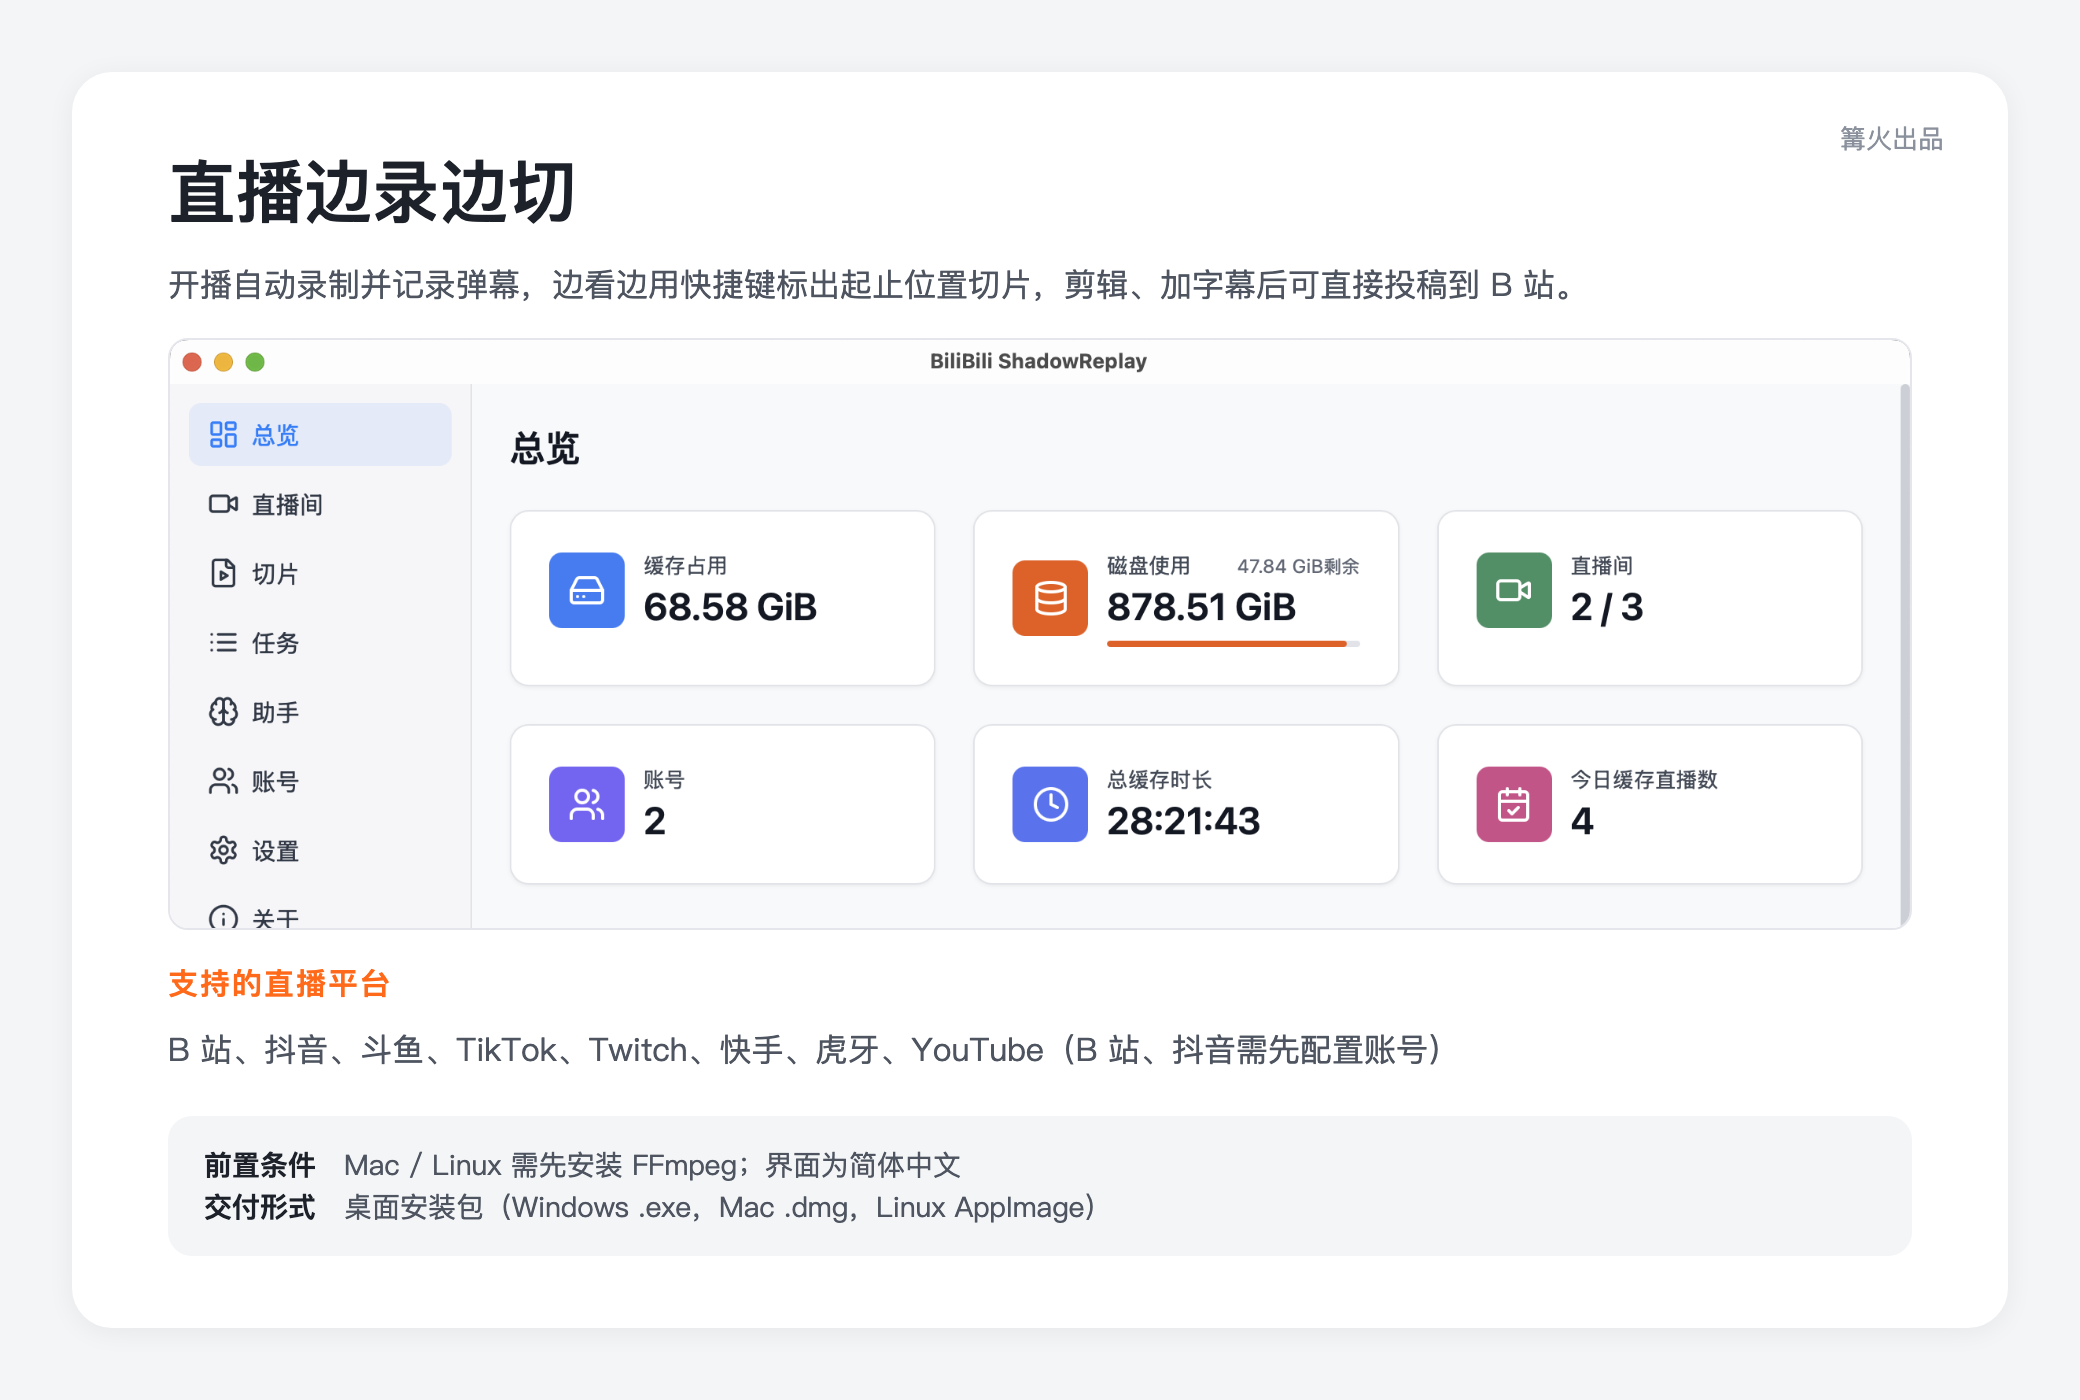
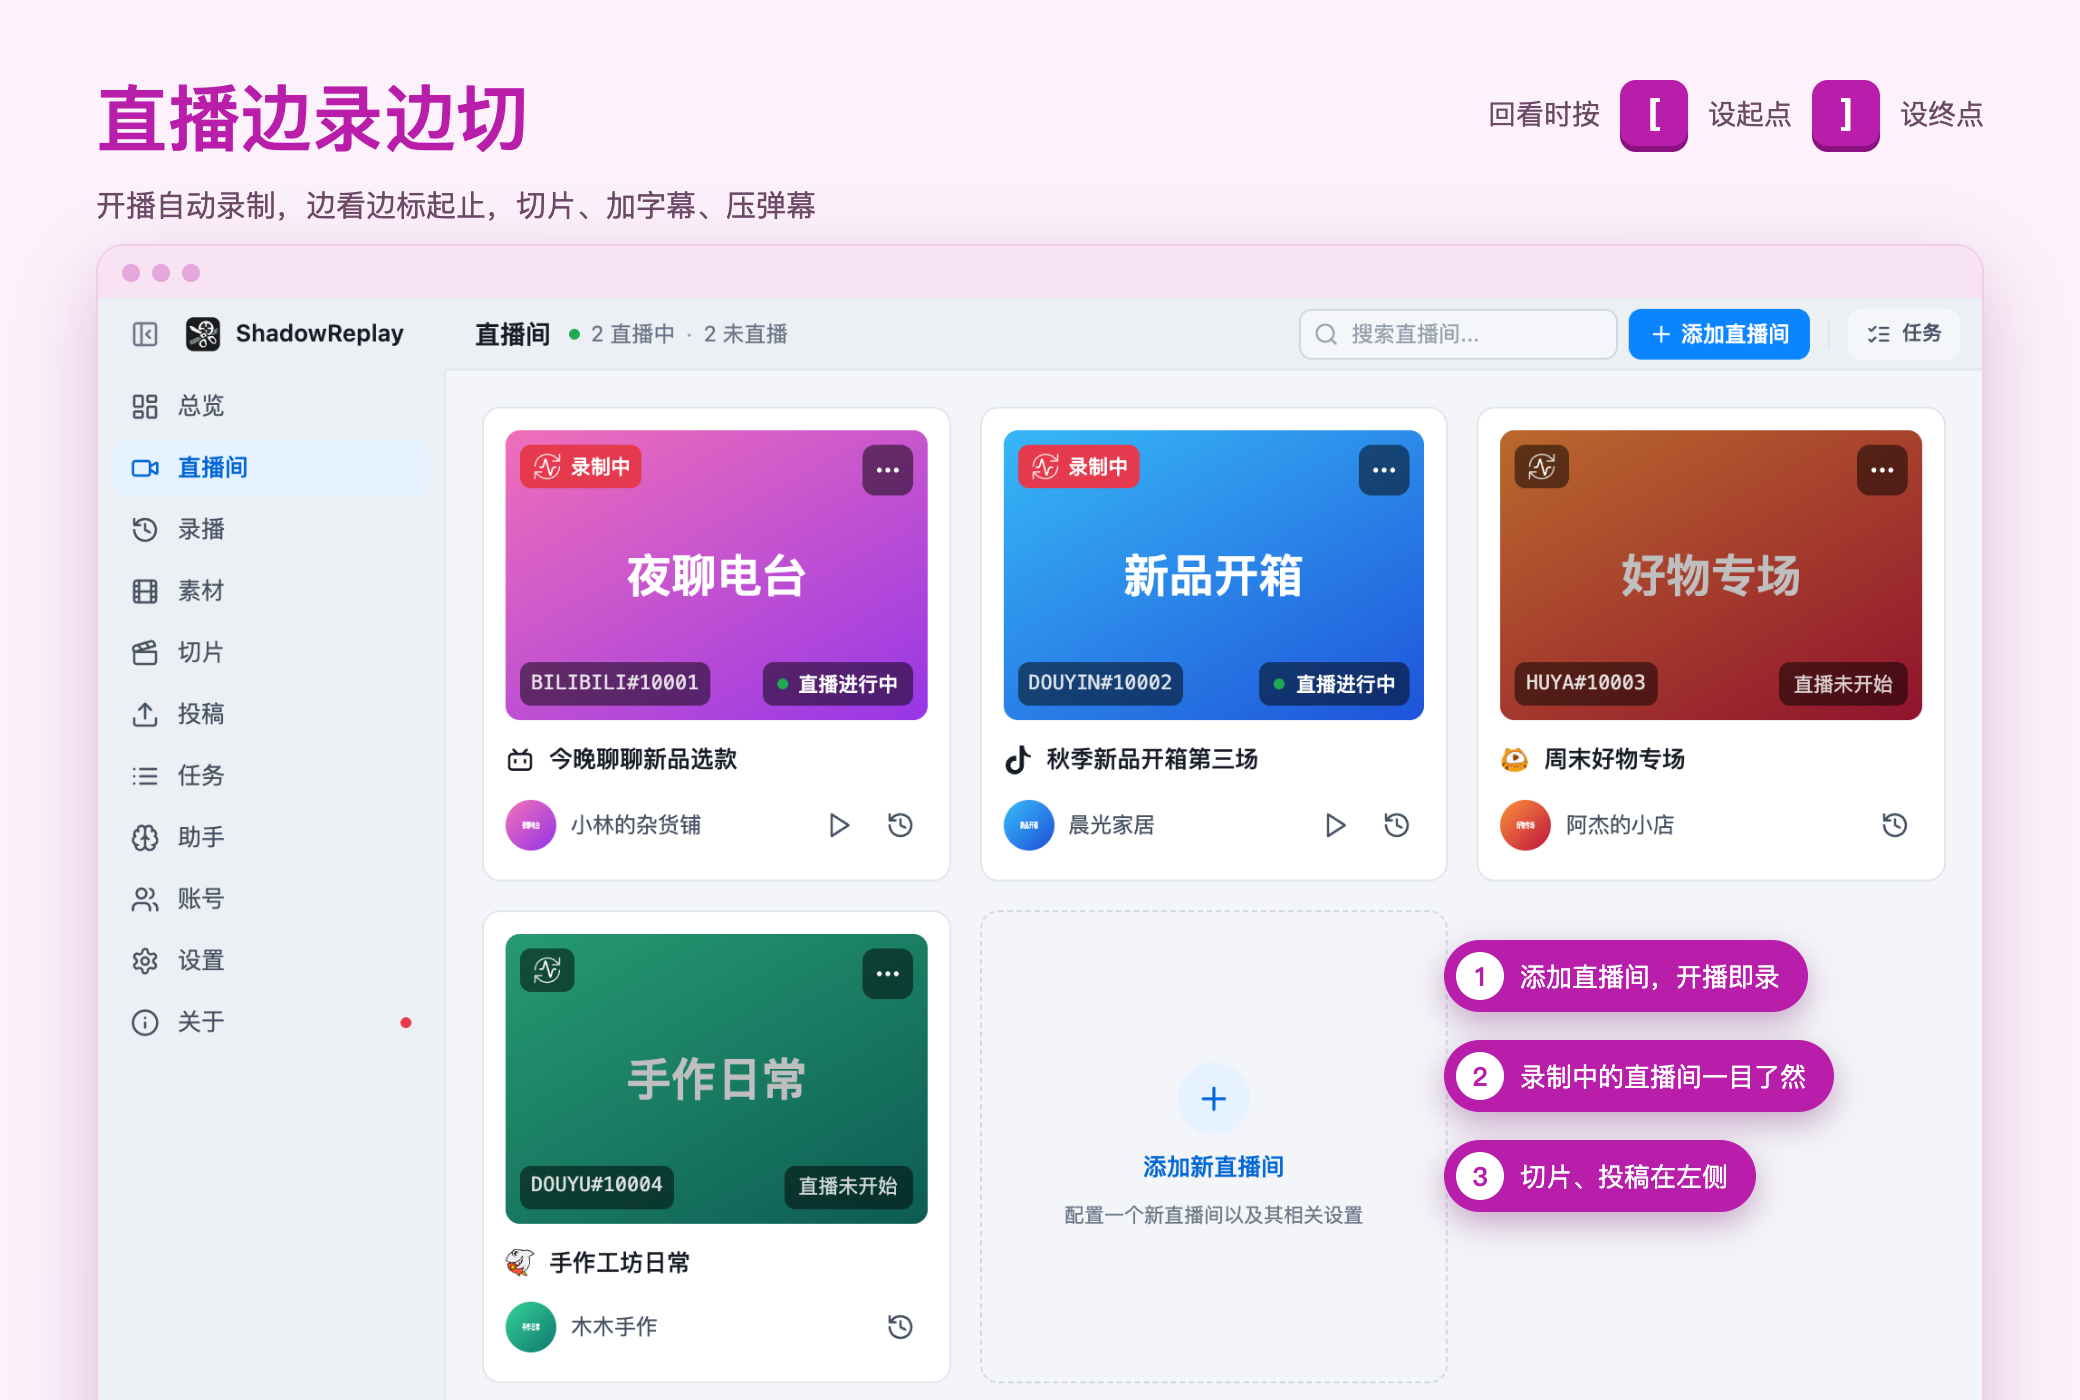
docs: 中文界面真实截图与说明卡，说明界面语言

diff --git a/docs/screenshot.html b/docs/screenshot.html
@@ -1,12 +1,19 @@
-<!doctype html><html lang="zh-CN"><meta charset="utf-8"><title>直播边录边切</title><style>*{box-sizing:border-box}body{margin:0;width:1040px;height:700px;background:#f4f5f7;font-family:-apple-system,"PingFang SC","Helvetica Neue",sans-serif;color:#1d2129;padding:36px}
-.card{background:#fff;border-radius:20px;height:628px;padding:36px 48px;box-shadow:0 2px 14px rgba(0,0,0,.06);position:relative;display:flex;flex-direction:column}
-.brand{position:absolute;right:32px;top:24px;font-size:13px;color:#8a919c}
-h1{margin:0 0 10px;font-size:34px;font-weight:700}
-.desc{font-size:16px;line-height:1.6;color:#4e5560;margin:0 0 18px}
-h2{font-size:15px;color:#ff6a1a;margin:0 0 10px;letter-spacing:1px}
-ol{margin:0;padding:0;list-style:none;counter-reset:n}
-li{counter-increment:n;display:flex;gap:14px;font-size:16px;line-height:1.55;margin-bottom:10px}
-li:before{content:counter(n);flex:none;width:26px;height:26px;border-radius:50%;background:#fff1e8;color:#ff6a1a;font-weight:700;font-size:14px;text-align:center;line-height:26px;margin-top:1px}
-.fmt{margin-top:auto;background:#f4f5f7;border-radius:12px;padding:14px 18px;font-size:14px;line-height:1.5;color:#4e5560}.fmt b{color:#1d2129}
-.shot{border-radius:10px;border:1px solid #e5e6eb;display:block}
-.clip{height:296px;overflow:hidden;margin:0 0 16px}.desc{margin-bottom:14px}li{margin-bottom:6px;font-size:15px}</style><body><div class="card"><div class="brand">篝火出品</div><h1>直播边录边切</h1><p class="desc">开播自动录制并记录弹幕，边看边用快捷键标出起止位置切片，剪辑、加字幕后可直接投稿到 B 站。</p><div class="shot clip"><img src="public/images/summary.png" style="width:100%;display:block"></div><h2>支持的直播平台</h2><p class="desc" style="margin:0 0 10px">B 站、抖音、斗鱼、TikTok、Twitch、快手、虎牙、YouTube（B 站、抖音需先配置账号）</p><div class="fmt"><b>前置条件　</b>Mac / Linux 需先安装 FFmpeg；界面为简体中文<br><b>交付形式　</b>桌面安装包（Windows .exe，Mac .dmg，Linux AppImage）</div></div></body></html>
+<!doctype html><html lang="zh-CN"><meta charset="utf-8"><title>直播边录边切</title><style>
+*{box-sizing:border-box}body{margin:0;width:1040px;height:700px;font-family:-apple-system,"PingFang SC","Helvetica Neue",sans-serif;color:#2a1027;background:#fdf2fb;position:relative;overflow:hidden}
+.hd{position:absolute;left:48px;top:34px}
+h1{margin:0;font-size:36px;color:#B81EAA}.sub{font-size:15px;color:#6b4a67;margin-top:8px}
+.keys{position:absolute;right:48px;top:40px;display:flex;gap:10px;align-items:center;font-size:14px;color:#6b4a67}
+kbd{display:inline-block;min-width:34px;text-align:center;font:600 18px ui-monospace,Menlo,monospace;color:#fff;background:#B81EAA;border-radius:8px;padding:6px 10px;box-shadow:0 3px 0 #8a1280}
+.win{position:absolute;left:48px;top:122px;width:944px;height:620px;border-radius:14px 14px 0 0;background:#fff;box-shadow:0 14px 40px rgba(120,20,110,.25);border:1px solid #f0cdea;overflow:hidden}
+.win .b{height:26px;background:#f8e3f5;display:flex;gap:6px;align-items:center;padding:0 12px}.win .b i{width:9px;height:9px;border-radius:50%;background:#e5a7dc}
+.win img{display:block;width:100%}
+.c{position:absolute;display:flex;align-items:center;gap:8px;background:#B81EAA;color:#fff;border-radius:22px;padding:6px 14px 6px 6px;font-size:13px;box-shadow:0 6px 16px rgba(120,20,110,.35);z-index:3}
+.c b{width:24px;height:24px;border-radius:50%;background:#fff;color:#B81EAA;text-align:center;line-height:24px;font-size:13px}
+</style><body>
+<div class="hd"><h1>直播边录边切</h1><div class="sub">开播自动录制，边看边标起止，切片、加字幕、压弹幕</div></div>
+<div class="keys">回看时按 <kbd>[</kbd> 设起点 <kbd>]</kbd> 设终点</div>
+<div class="win"><div class="b"><i></i><i></i><i></i></div><img src="ui-rooms-zh.png"></div>
+<div class="c" style="left:722px;top:470px"><b>1</b>添加直播间，开播即录</div>
+<div class="c" style="left:722px;top:520px"><b>2</b>录制中的直播间一目了然</div>
+<div class="c" style="left:722px;top:570px"><b>3</b>切片、投稿在左侧</div>
+</body></html>

diff --git a/README.md b/README.md
@@ -34,7 +34,7 @@
 - Mac 首次打开会提示“无法打开从网络下载的软件”，到“系统设置 → 隐私与安全性”选择仍然打开。
 - 录制 B 站、抖音需要在软件的“账号”页配置账号。
 - AI 字幕（可选）使用 Whisper：可在本机运行，模型首次使用时自动下载；也可接在线 Whisper 服务（通常需要付费密钥）。录播总结等功能需要自己配置大模型。
-- 软件界面为简体中文。
+- 软件界面是简体中文，上游把中文写死在界面里，没有语言切换选项，装好就是中文，不需要设置。窗口标题栏的「BiliBili ShadowReplay」、侧栏软件名 ShadowReplay 和文件大小单位（KiB、MiB、GiB）是上游写死的原文，无法修改。
 
 ## 怎么用
 
